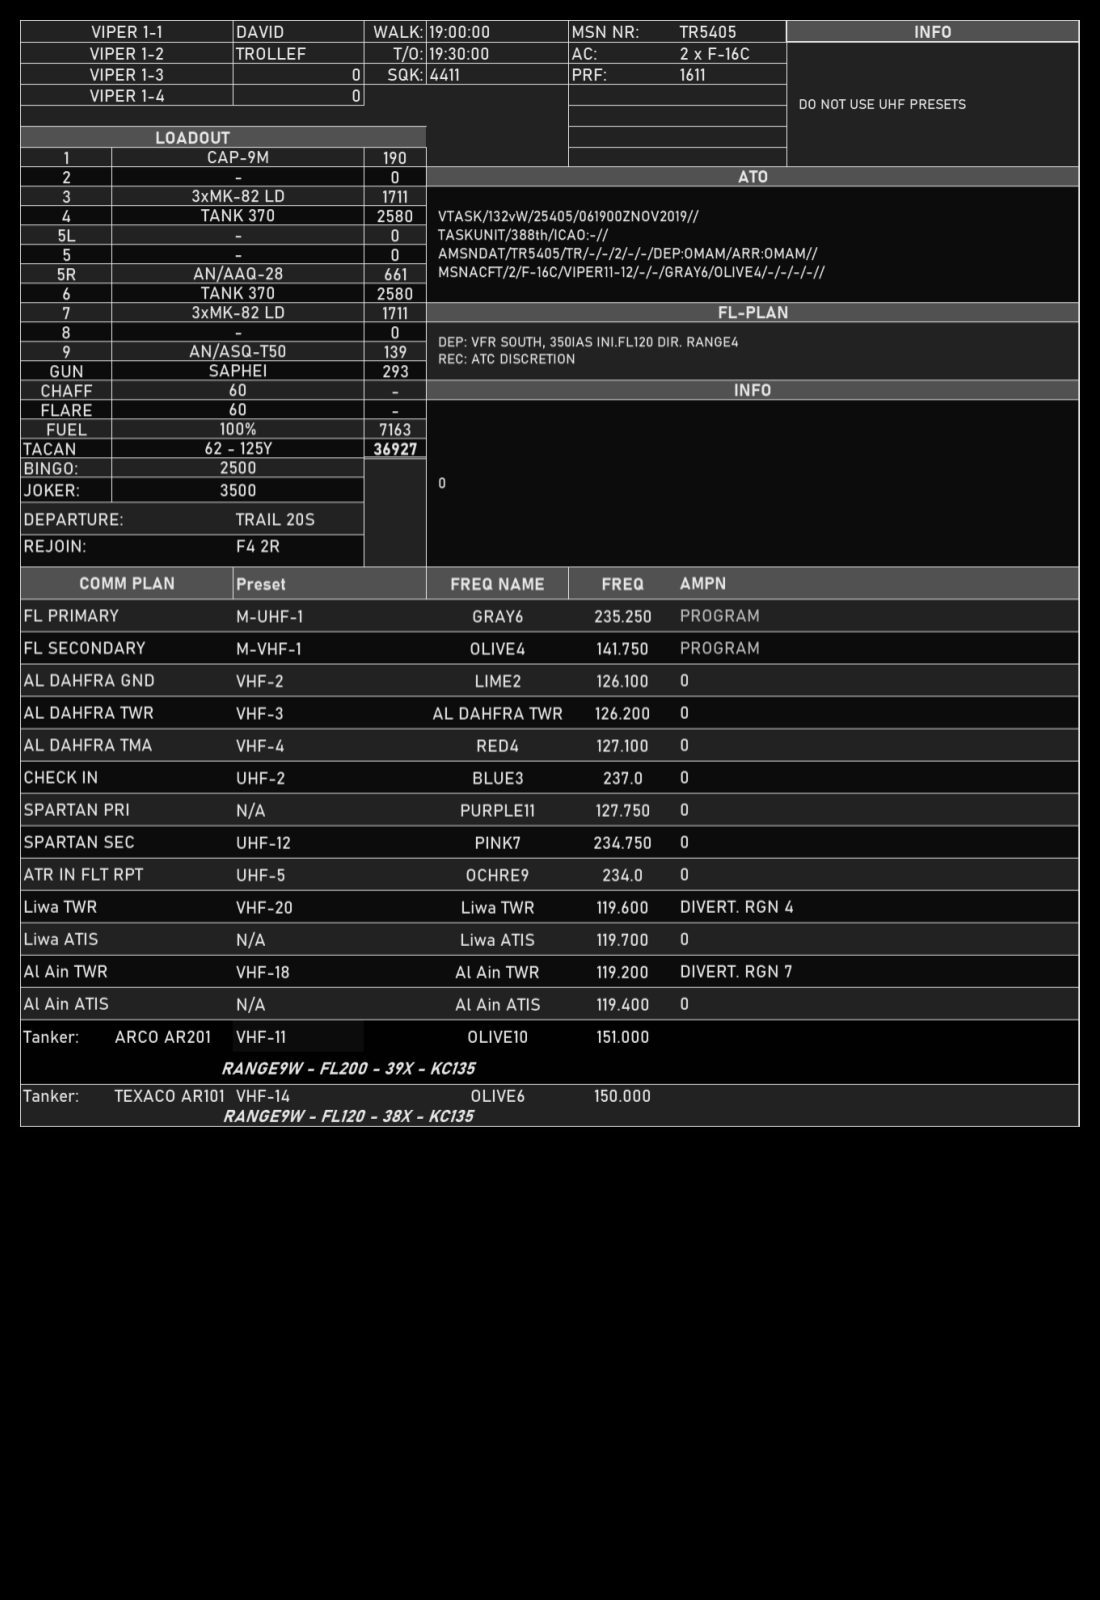
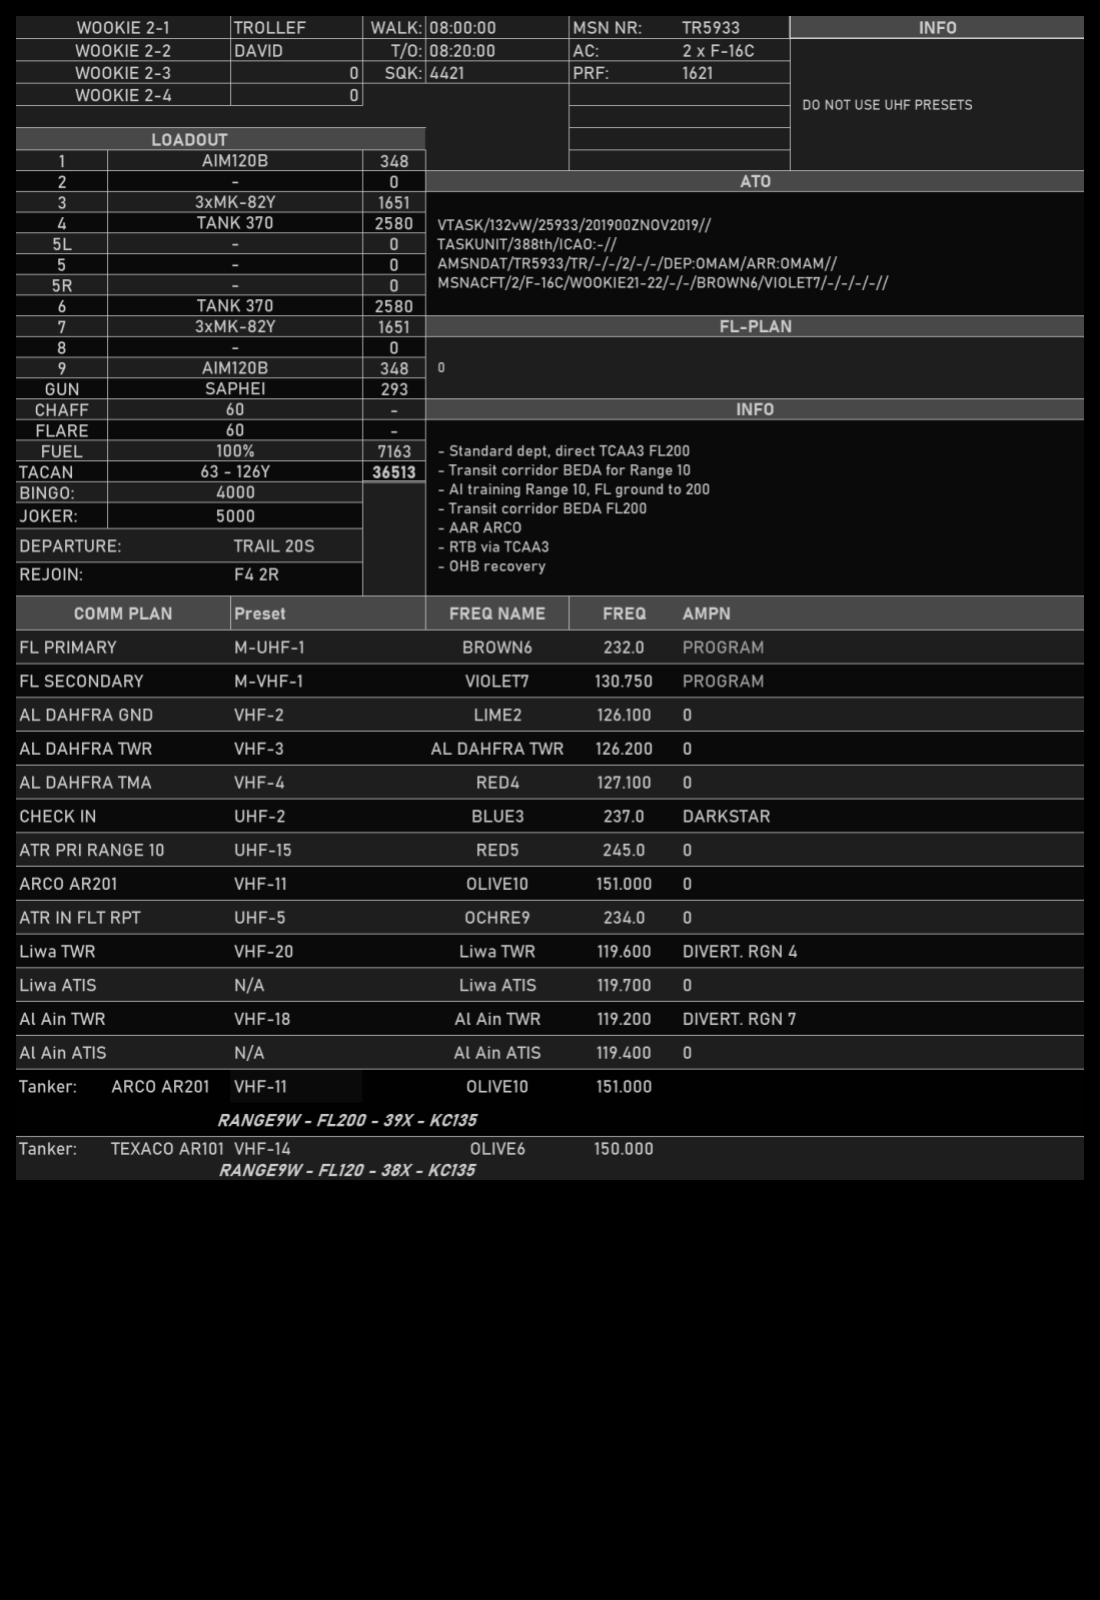
191120

Changed region(s): [[0.0, 0.0, 0.9891, 0.75]]

diff --git a/index.md b/index.md
@@ -2,89 +2,37 @@
 - | - | -
 [VIPER START](/F16START.MD) | [FLIP GULF](https://www.dropbox.com/s/sp91zf63rx0esao/FLIP_GULFR2_EC1.pdf?dl=0) | [FLIP CAUCASUS](https://www.dropbox.com/s/ppiqy9ba7i8h8op/FLIP_CAUR_EC1.pdf?dl=0)
 
-## NAME - MSN# - TIMEDATE
+## WOOKIE 2 - TR5933
 
-FL: 
+Flight Lead: TROLLEF  
+WM2: DAVID  
+Element Lead:   
+WM4:   
+TACAN: 63 - 126Y  
 
-WM: 
+## LOADOUT
 
-EL: 
-
-EW: 
+left | right
+----- | -----
+S1 - AIM120B | S9 - AIM120B
+S2 - - | S8 - -
+S3 - 3xMK-82Y | S7 - 3xMK-82Y
+S4 - TANK 370 | S6 - TANK 370
+S5L - - | S5R - -
+S5 - - | SGUN - SAPHEI
+CHAFF - 60 | FLARE - 60
 
 
 ## FP
 
----  												
-###	59	MADISON	N	26	51,000	  -  	E	056	39,000		GEOREF	
-												
----  												
-####	00	Al Dhafra AB									0 - 0	
-#####  	FUEL:		12103		WALK:		07:00:00	T/O T:		07:20:00		
-												
-												
----  												
-###	01	ROUTE	N	25	03,724	  -  	E	054	23,543			
-#####	DIST:	048,9  NM	BINGO:	10783	ALT:		20.0 M	MACH:	0,7			
-#####	HDG:	349°	GS:	435	ETE:		00:06:45	TOT:		07:26:45		
-												
-												
----  												
-###	02	DECENT	N	25	46,801	  -  	E	054	30,172			
-#####	DIST:	043,5  NM	BINGO:	10054	ALT:		20.0 M	MACH:	0,7			
-#####	HDG:	006°	GS:	434	ETE:		00:06:01	TOT:		07:32:46		
-												
-												
----  												
-###	03	INGRESS_NOE	N	26	23,518	  -  	E	054	36,525			
-#####	DIST:	037,2  NM	BINGO:	9235	ALT:		0.2 A	MACH:	0,7			
-#####	HDG:	007°	GS:	466	ETE:		00:04:47	TOT:		07:37:33		
-												
-												
----  												
-###	04	IP	N	26	41,640	  -  	E	054	40,485			
-#####	DIST:	018,5  NM	BINGO:	8828	ALT:		0.2 A	MACH:	0,7			
-#####	HDG:	009°	GS:	468	ETE:		00:02:22	TOT:		07:39:55		
-												
-												
----  												
-###	05	T7	N	26	36,927	  -  	E	054	55,187			
-#####	DIST:	014,0  NM	BINGO:	8520	ALT:		0.1 M	MACH:	0,76			
-#####	HDG:	108°	GS:	503	ETE:		00:01:40	TOT:		07:41:35		
-												
-												
----  												
-###	06	EGRESS	N	26	24,508	  -  	E	055	10,778			
-#####	DIST:	018,7  NM	BINGO:	8207	ALT:		20.0 A	MACH:	0,7			
-#####	HDG:	130°	GS:	434	ETE:		00:02:35	TOT:		07:44:10		
-												
-												
----  												
-###	07	MRR_TURN	N	25	37,592	  -  	E	056	05,102			
-#####	DIST:	067,8  NM	BINGO:	7073	ALT:		20.0 A	MACH:	0,71			
-#####	HDG:	132°	GS:	435	ETE:		00:09:21	TOT:		07:53:31		
-												
-												
----  												
-###	08	MRR_SOUTH	N	24	32,548	  -  	E	055	12,803			
-#####	DIST:	080,5  NM	BINGO:	5724	ALT:		20.0 A	MACH:	0,7			
-#####	HDG:	215°	GS:	434	ETE:		00:11:08	TOT:		08:04:39		
-												
-												
----  												
-###	09	OMAM_ELEV	N	24	24,419	  -  	E	054	54,020			
-#####	DIST:	018,9  NM	BINGO:	5307	ALT:		5.0 A	MACH:	0,66			
-#####	HDG:	243°	GS:	434	ETE:		00:02:37	TOT:		08:07:16		
-												
-												
----  												
-###	10	Al Dhafra AB	N	24	15,433	  -  	E	054	32,050			
-#####	DIST:	022,0  NM	BINGO:	4823	ALT:		1.5 A	MACH:	0,65			
-#####	HDG:	244°	GS:	434	ETE:		00:03:02	TOT:		08:10:18		
-												
-
-
-				
+Standard dept, direct TCAA3 FL200  
+Transit corridor BEDA for Range 10  
+AI training Range 10, FL ground to 200  
+Transit corridor BEDA FL200  
+AAR ARCO   
+RTB via TCAA3  
+OHB recovery	  					
+						
 
 
 ## Objective
@@ -92,26 +40,79 @@ EW:
 
 
 
-## LOADOUT
-
-left | right
------ | -----
-S1 - AIM120C | S9 - AIM120C
-S2 - AIM-9X | S8 - AIM-9X
-S3 - MK-84 | S7 - MK-84
-S4 - TANK 370 | S6 - TANK 370
-S5L - - | S5R - -
-S5 - - | SGUN - SAPHEI
-CHAFF - 60 | FLARE - 60
-
-
 
 ## STEERPOINTS
 
 
-![MDC1](--MDC10.PNG)
-![MDC1](--MDC20.PNG)
-![AO](E50.png)
+---  												
+###	59	NAOMI	N	26	10,309	  -  	E	056	14,516		GEOREF	
+												
+---  												
+####	00	Al Dhafra AB									0 - 0	
+#####  	FUEL:		12103		WALK:		08:00:00	T/O T:		08:20:00		
+												
+												
+---  												
+###	01	TCAA3	N	23	47,903	  -  	E	054	43,480			
+#####	DIST:	029,5  NM	BINGO:	11110	ALT:		20.0 M	MACH:	0,75			
+#####	HDG:	158°	GS:	469	ETE:		00:03:46	TOT:		08:23:46		
+												
+												
+---  												
+###	02	2	N	23	48,261	  -  	E	056	23,324			
+#####	DIST:	091,4  NM	BINGO:	9578	ALT:		20.0 M	MACH:	0,76			
+#####	HDG:	088°	GS:	471	ETE:		00:11:38	TOT:		08:35:24		
+												
+												
+---  												
+###	03	3	N	23	25,250	  -  	E	057	02,071			
+#####	DIST:	042,3  NM	BINGO:	8869	ALT:		20.0 M	MACH:	0,77			
+#####	HDG:	122°	GS:	476	ETE:		00:05:20	TOT:		08:40:44		
+												
+												
+---  												
+###	04	4	N	23	05,941	  -  	E	057	16,632			
+#####	DIST:	023,5  NM	BINGO:	8351	ALT:		0.3 A	MACH:	0,72			
+#####	HDG:	144°	GS:	475	ETE:		00:02:58	TOT:		08:43:42		
+												
+												
+---  												
+###	05	DMPI 1	N	22	48,817	  -  	E	057	15,190			
+#####	DIST:	017,2  NM	BINGO:	7973	ALT:		1.5 M	MACH:	0,72			
+#####	HDG:	183°	GS:	476	ETE:		00:02:10	TOT:		08:45:52		
+####	ELEV 1509											
+												
+---  												
+###	06	6	N	23	10,689	  -  	E	057	02,148			
+#####	DIST:	025,0  NM	BINGO:	7423	ALT:		0.3 A	MACH:	0,72			
+#####	HDG:	330°	GS:	476	ETE:		00:03:09	TOT:		08:49:01		
+												
+												
+---  												
+###	07	7	N	23	48,487	  -  	E	056	17,464			
+#####	DIST:	055,8  NM	BINGO:	6488	ALT:		20.0 M	MACH:	0,75			
+#####	HDG:	311°	GS:	468	ETE:		00:07:09	TOT:		08:56:10		
+												
+												
+---  												
+###	08	TCAA3	N	23	47,903	  -  	E	054	43,480			
+#####	DIST:	086,0  NM	BINGO:	5047	ALT:		20.0 M	MACH:	0,76			
+#####	HDG:	268°	GS:	471	ETE:		00:10:57	TOT:		09:07:07		
+												
+												
+---  												
+###	09	Al Dhafra AB	N	24	15,433	  -  	E	054	32,050			
+#####	DIST:	029,5  NM	BINGO:	4398	ALT:		0.1 A	MACH:	300			
+#####	HDG:	338°	GS:	303	ETE:		00:05:50	TOT:		09:12:57		
+												
+
+
+
+![AO](E10.png)
+![AO1](E20.png)
+![AO2](E40.png)
+
+
 
 ## METAR: 
 
@@ -121,15 +122,29 @@ CHAFF - 60 | FLARE - 60
 
 ## COMMS
 
+#### FL PRIMARY / - / BROWN6 / 232.0 / AMPN:PROGRAM
+#### FL SECONDARY / - / VIOLET7 / 130.750 / AMPN:PROGRAM
+#### AL DAHFRA GND / - / LIME2 / 126.100 / AMPN:0
+#### AL DAHFRA TWR / - / AL DAHFRA TWR / 126.200 / AMPN:0
+#### AL DAHFRA TMA / - / RED4 / 127.100 / AMPN:0
+#### CHECK IN / - / BLUE3 / 237.0 / AMPN:DARKSTAR
+#### ATR PRI RANGE 10 / - / RED5 / 245.0 / AMPN:0
+#### ARCO AR201 / - / OLIVE10 / 151.000 / AMPN:0
+#### ATR IN FLT RPT / - / OCHRE9 / 234.0 / AMPN:0
+#### Liwa TWR / - / Liwa TWR / 119.600 / AMPN:DIVERT. RGN 4
+#### Liwa ATIS / - / Liwa ATIS / 119.700 / AMPN:0
+#### Al Ain TWR / - / Al Ain TWR / 119.200 / AMPN:DIVERT. RGN 7
+#### Al Ain ATIS / - / Al Ain ATIS / 119.400 / AMPN:0
+
+
 ## SPINS
 
 ### RAMROD
 
 | 0 | 1 | 2 | 3 | 4 | 5 | 6 | 7 | 8 | 9 |
 | - | - | - | - | - | - | - | - | - | - |
-| B | L | A | C | K | H | O | R | S | E |
 | L | U | M | B | E | R | J | A | C | K |
-| C | O | M | P | L | E | X | I | T | Y |
+
 
 ### BASE
 
@@ -160,6 +175,7 @@ CHAFF - 60 | FLARE - 60
 
 ## TCN
 
+63 - 126Y  
 
 ## ROE:
 
